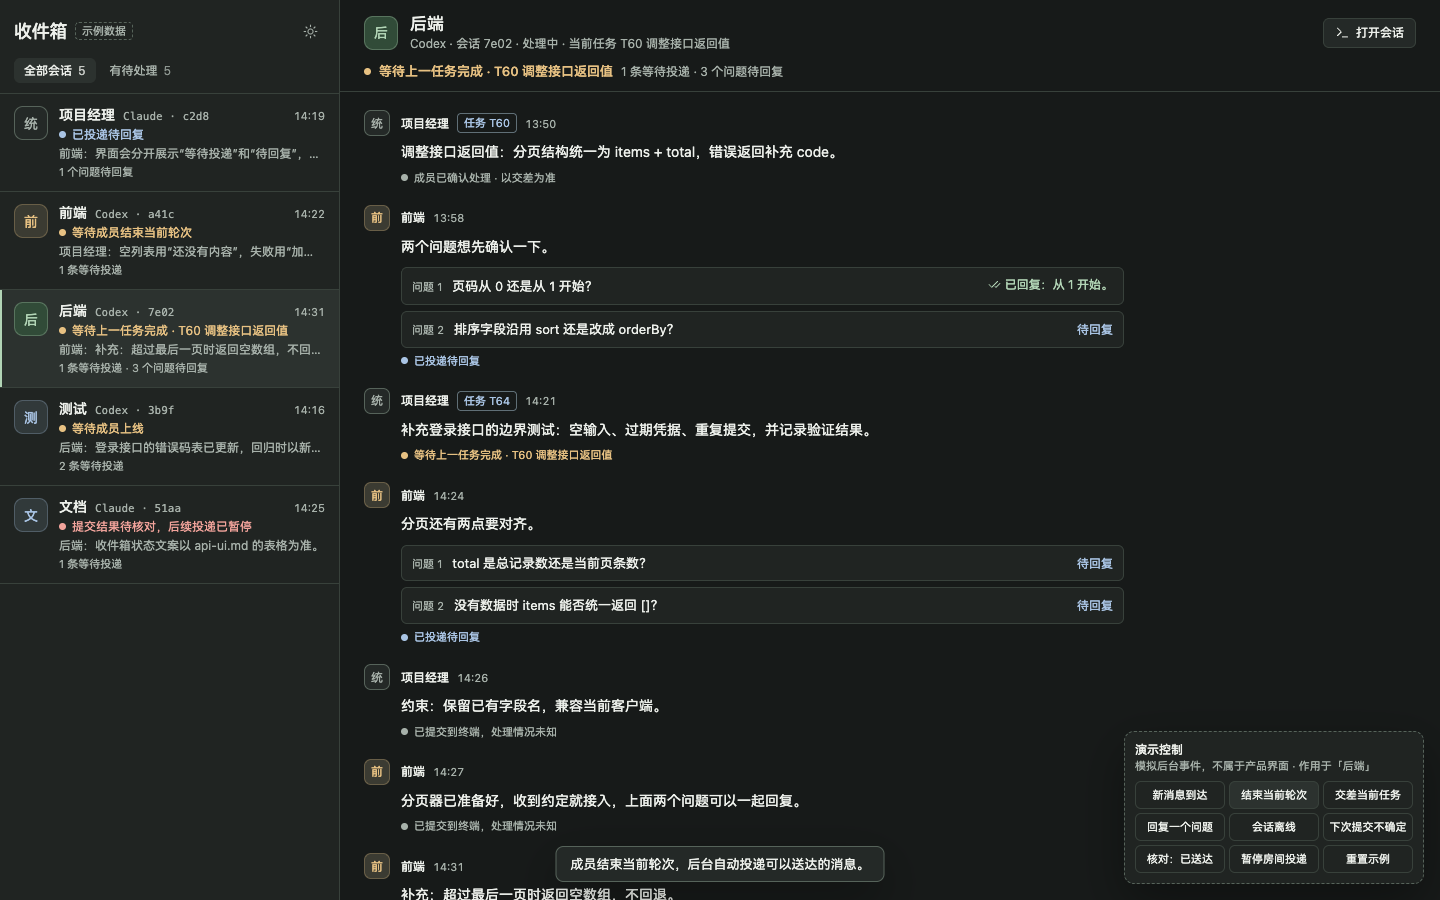
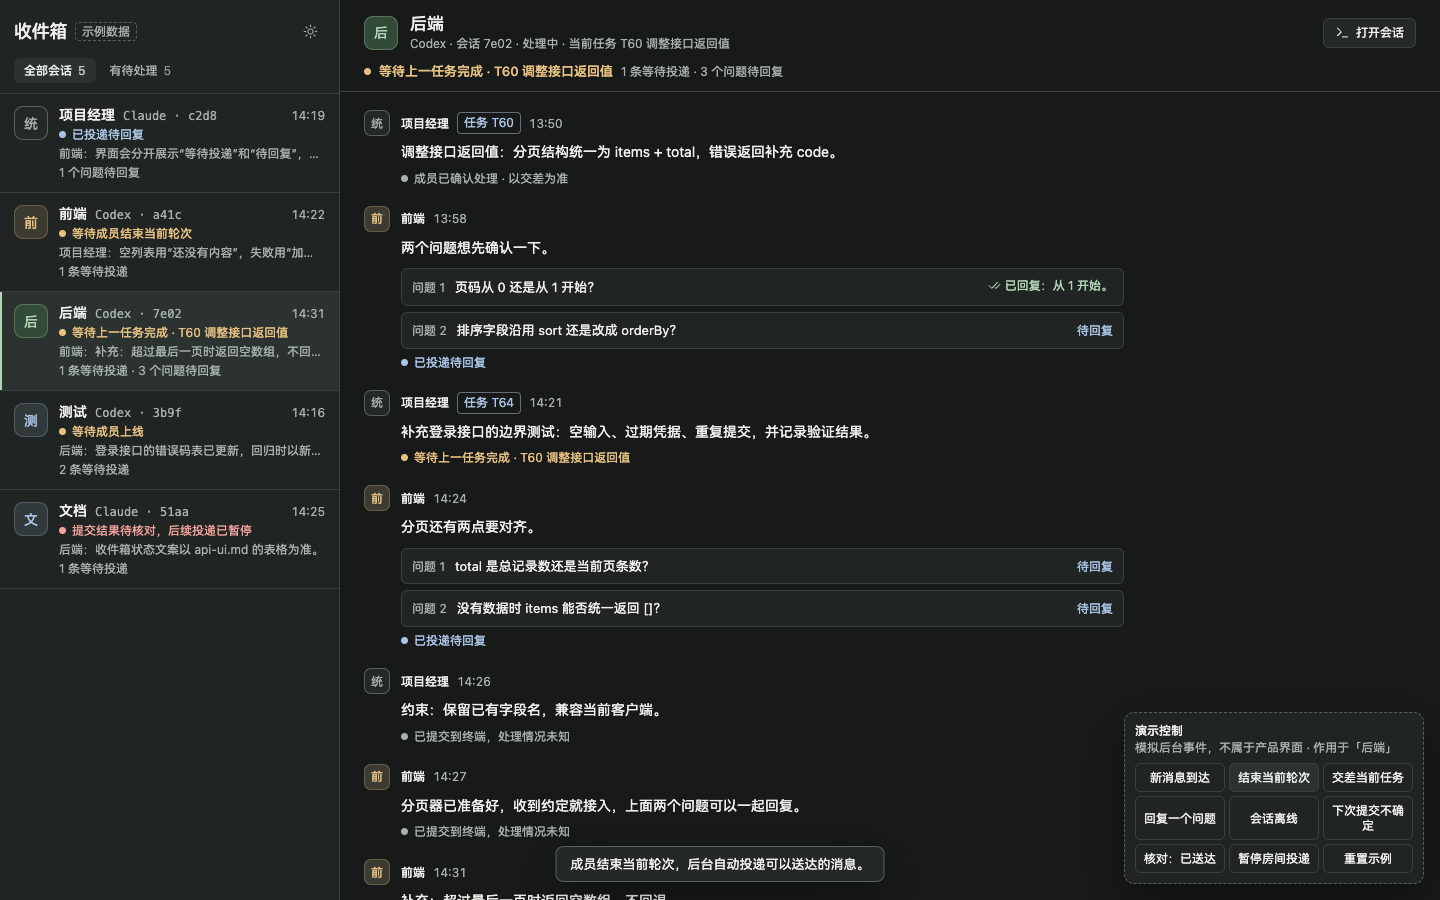
docs(design): raise inbox prototype text to 12px and cover review points

diff --git a/docs/design/collaboration-inbox/prototype/inbox.css b/docs/design/collaboration-inbox/prototype/inbox.css
@@ -43,7 +43,7 @@ strong, b, h1, h2 { font-weight: 500; }
 .list-head { padding: 16px 14px 10px; border-bottom: 1px solid var(--border); }
 .title-row { display: flex; align-items: center; gap: 8px; }
 h1 { font-size: 18px; letter-spacing: -.3px; }
-.sample-tag { font-size: 11px; color: var(--muted); border: 1px dashed var(--strong); border-radius: 4px; padding: 1px 6px; }
+.sample-tag { font-size: 12px; color: var(--muted); border: 1px dashed var(--strong); border-radius: 4px; padding: 1px 6px; }
 .icon-button { margin-left: auto; width: 30px; height: 30px; display: inline-flex; align-items: center; justify-content: center; color: var(--muted); }
 .filters { display: flex; gap: 4px; margin-top: 12px; }
 .filters button { font-size: 12px; padding: 5px 10px; color: var(--muted); display: inline-flex; gap: 6px; }
@@ -56,12 +56,12 @@ h1 { font-size: 18px; letter-spacing: -.3px; }
 .session-body { display: flex; flex-direction: column; gap: 4px; min-width: 0; flex: 1; }
 .session-top { display: flex; align-items: baseline; gap: 8px; }
 .session-top strong { font-size: 14px; white-space: nowrap; }
-.agent { font-size: 11px; color: var(--muted); font-family: ui-monospace, SFMono-Regular, Menlo, monospace; white-space: nowrap; }
-.session-top time { margin-left: auto; font-size: 11px; color: var(--muted); font-variant-numeric: tabular-nums; }
+.agent { font-size: 12px; color: var(--muted); font-family: ui-monospace, SFMono-Regular, Menlo, monospace; white-space: nowrap; }
+.session-top time { margin-left: auto; font-size: 12px; color: var(--muted); font-variant-numeric: tabular-nums; }
 .session-status { display: flex; align-items: center; gap: 6px; font-size: 12px; min-width: 0; }
 .session-status > span { white-space: nowrap; overflow: hidden; text-overflow: ellipsis; }
 .session-preview { font-size: 12px; color: var(--muted); white-space: nowrap; overflow: hidden; text-overflow: ellipsis; }
-.session-counts { font-size: 11px; color: var(--muted); }
+.session-counts { font-size: 12px; color: var(--muted); }
 
 .avatar { width: 34px; height: 34px; border-radius: 9px; border: 1px solid var(--strong); display: inline-flex; align-items: center; justify-content: center; flex: none; font-size: 14px; color: var(--muted); background: var(--raised); }
 .avatar.small { width: 26px; height: 26px; font-size: 12px; border-radius: 7px; }
@@ -85,8 +85,8 @@ h1 { font-size: 18px; letter-spacing: -.3px; }
 .message { display: flex; gap: 11px; max-width: 760px; margin-bottom: 20px; }
 .message-body { min-width: 0; flex: 1; }
 .message-meta { display: flex; align-items: center; gap: 8px; font-size: 12px; min-height: 26px; }
-.message-meta time { color: var(--muted); font-size: 11px; font-variant-numeric: tabular-nums; }
-.kind { font-size: 11px; padding: 0 6px; border-radius: 4px; border: 1px solid var(--border); color: var(--muted); line-height: 18px; }
+.message-meta time { color: var(--muted); font-size: 12px; font-variant-numeric: tabular-nums; }
+.kind { font-size: 12px; padding: 0 6px; border-radius: 4px; border: 1px solid var(--border); color: var(--muted); line-height: 20px; }
 .kind.task { color: var(--info); border-color: color-mix(in srgb, var(--info) 35%, var(--border)); }
 .quote { display: flex; gap: 6px; align-items: flex-start; margin-top: 4px; padding: 4px 8px; border-left: 2px solid var(--strong); font-size: 12px; color: var(--muted); }
 .quote .ico { margin-top: 2px; } .quote .ico svg { width: 12px; height: 12px; }
@@ -94,12 +94,12 @@ h1 { font-size: 18px; letter-spacing: -.3px; }
 .message-text { margin-top: 4px; font-size: 14px; line-height: 1.75; overflow-wrap: anywhere; }
 .questions { margin-top: 8px; padding: 0; list-style: none; counter-reset: q; display: flex; flex-direction: column; gap: 6px; }
 .questions li { counter-increment: q; display: flex; flex-wrap: wrap; align-items: baseline; gap: 4px 10px; padding: 7px 10px; border: 1px solid var(--border); border-radius: 6px; font-size: 13px; line-height: 1.6; background: var(--surface); }
-.questions li::before { content: "问题 " counter(q); font-size: 11px; color: var(--muted); }
+.questions li::before { content: "问题 " counter(q); font-size: 12px; color: var(--muted); }
 .q-text { flex: 1; min-width: 12em; }
 .q-state { display: inline-flex; align-items: center; gap: 4px; font-size: 12px; white-space: nowrap; }
 .q-state .ico svg { width: 13px; height: 13px; }
 .questions li.replied .q-state { white-space: normal; }
-.message-status { display: flex; align-items: center; gap: 6px; font-size: 11px; margin-top: 6px; }
+.message-status { display: flex; align-items: center; gap: 6px; font-size: 12px; margin-top: 6px; }
 .message.withdrawn .message-text { color: var(--muted); text-decoration: line-through; }
 
 .empty { display: flex; flex-direction: column; align-items: center; gap: 10px; color: var(--muted); padding: 48px 20px; font-size: 13px; }
@@ -109,9 +109,9 @@ h1 { font-size: 18px; letter-spacing: -.3px; }
 /* ---- 演示控制（仅 #demo） ---- */
 .demo-panel { position: fixed; right: 16px; bottom: 16px; width: 300px; background: var(--surface); border: 1px dashed var(--strong); border-radius: 10px; box-shadow: var(--shadow); padding: 10px; z-index: 30; }
 .demo-head { display: flex; flex-direction: column; gap: 2px; font-size: 12px; margin-bottom: 8px; }
-.demo-head span { color: var(--muted); font-size: 11px; }
+.demo-head span { color: var(--muted); font-size: 12px; }
 .demo-grid { display: grid; grid-template-columns: repeat(3, 1fr); gap: 4px; }
-.demo-grid button { font-size: 11px; padding: 6px 4px; border: 1px solid var(--border); }
+.demo-grid button { font-size: 12px; padding: 6px 4px; border: 1px solid var(--border); }
 .toast { position: fixed; bottom: 18px; left: 50%; transform: translate(-50%, 10px); background: var(--raised); border: 1px solid var(--strong); border-radius: 8px; box-shadow: var(--shadow); padding: 9px 14px; font-size: 13px; max-width: min(520px, calc(100vw - 32px)); opacity: 0; pointer-events: none; transition: opacity .18s, transform .18s; z-index: 40; }
 .toast.show { opacity: 1; transform: translate(-50%, 0); }
 ::-webkit-scrollbar { width: 6px; height: 6px; }
@@ -138,3 +138,5 @@ h1 { font-size: 18px; letter-spacing: -.3px; }
 }
 @media (max-width: 420px) { .who .button span { display: none; } }
 @media (prefers-reduced-motion: reduce) { * { transition: none !important; } }
+/* #demo 打开时给消息区留出面板高度，最后一条能滚到面板上方 */
+body.demo-on .messages { padding-bottom: 150px; }

diff --git a/docs/design/collaboration-inbox/prototype/inbox.js b/docs/design/collaboration-inbox/prototype/inbox.js
@@ -190,6 +190,7 @@
   function renderDemo() {
     const p = $("#demo-panel");
     p.hidden = location.hash !== "#demo";
+    document.body.classList.toggle("demo-on", !p.hidden);
     if (p.hidden) return;
     const s = session(state.selected);
     p.innerHTML = `<div class="demo-head"><strong>演示控制</strong><span>模拟后台事件，不属于产品界面 · 作用于「${esc(s?.name)}」</span></div>

diff --git a/docs/design/collaboration-inbox/prototype.md b/docs/design/collaboration-inbox/prototype.md
@@ -21,7 +21,7 @@
 | 已送达，问题未答 | 已投递待回复；问题行“待回复” |
 | 一条消息两个问题只答了一个 | 问题 1“已回复：…”，问题 2 仍“待回复” |
 | 任务已送达 | 成员已确认处理 · 以交差为准（送达不等于完成） |
-| 没有处理回执 | 已提交到终端，处理情况未知 |
+| 没有处理回执（含已送达的非询问消息） | 已提交到终端，处理情况未知（不标已处理） |
 | 仅知会 | 仅知会，已记录（不计入等待投递） |
 | 提交不确定 / 重启时正在投递 | 提交结果待核对，后续投递已暂停（红色，不自动重投） |
 | 离线 / 房间暂停 / 撤回 | 等待成员上线 / 投递已暂停，消息已保存 / 待发消息已撤回 |
@@ -36,9 +36,9 @@
 
 ## 验证
 
-`node prototype/tools/verify.mjs` 用本机无头 Chrome 跑真实点击，共 14 项，全部通过。覆盖：主界面无操作按钮、同类模型分行、会话状态与计数、逐问题状态、各类文案、筛选、深浅主题，以及用 `#demo` 模拟的后台事件（协商先于新任务送达、交差后才送任务、部分回复、提交不确定、重启、离线、暂停）。720×480 下可以从列表进详情再返回，Esc 也能返回，没有横向溢出。
+`node prototype/tools/verify.mjs` 用本机无头 Chrome 跑真实点击，共 17 项，全部通过。覆盖：主界面无操作按钮、同类模型分行、会话状态与计数、逐问题状态、各类文案、筛选、深浅主题，以及用 `#demo` 模拟的后台事件（协商先于新任务送达、交差后才送任务、部分回复、提交不确定、重启、离线、暂停）。720×480 下可以从列表进详情再返回，Esc 也能返回，没有横向溢出；`#demo` 面板（含“交差当前任务”）在 720×480 下可点。界面文字不小于 12px。
 
-截图：`1440-sessions`、`1440-detail`、`1440-detail-light`、`1440-demo-after-turn`、`720-sessions`、`720-detail`、`720-sessions-light`。
+截图：`1440-sessions`、`1440-detail`、`1440-detail-light`、`1440-demo-after-turn`、`720-sessions`、`720-detail`、`720-sessions-light`、`720-demo`。
 
 ## 未覆盖
 

diff --git a/docs/design/collaboration-inbox/prototype/README.md b/docs/design/collaboration-inbox/prototype/README.md
@@ -8,5 +8,5 @@
 
 工具：
 
-- `node tools/verify.mjs [输出目录]`：启动本机无头 Chrome，真实点击跑 14 项验证并截图（默认写到 `../screenshots/`）。
+- `node tools/verify.mjs [输出目录]`：启动本机无头 Chrome，真实点击跑 17 项验证并截图（默认写到 `../screenshots/`）。
 - `node tools/build-icons.mjs <lucide-react/dist/esm/icons>`：重新生成 `icons.js`。
